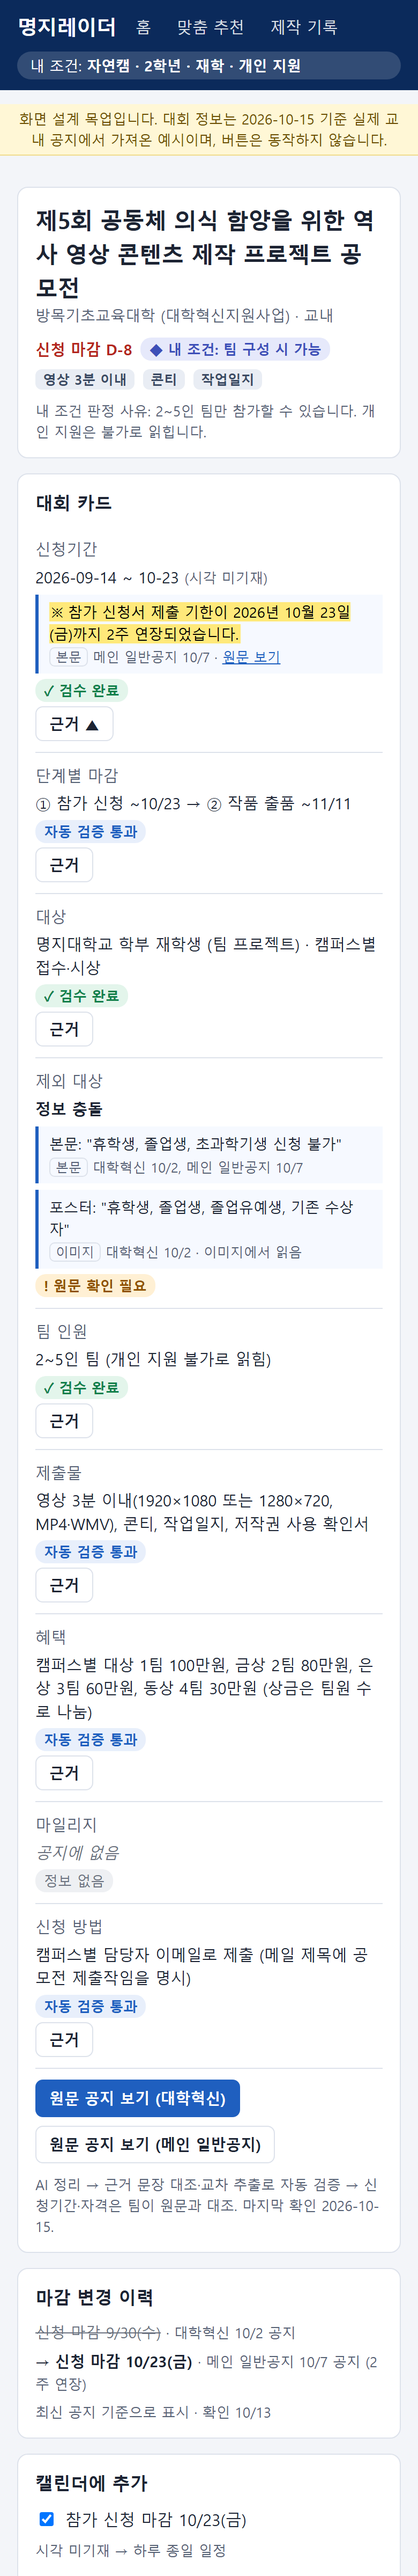
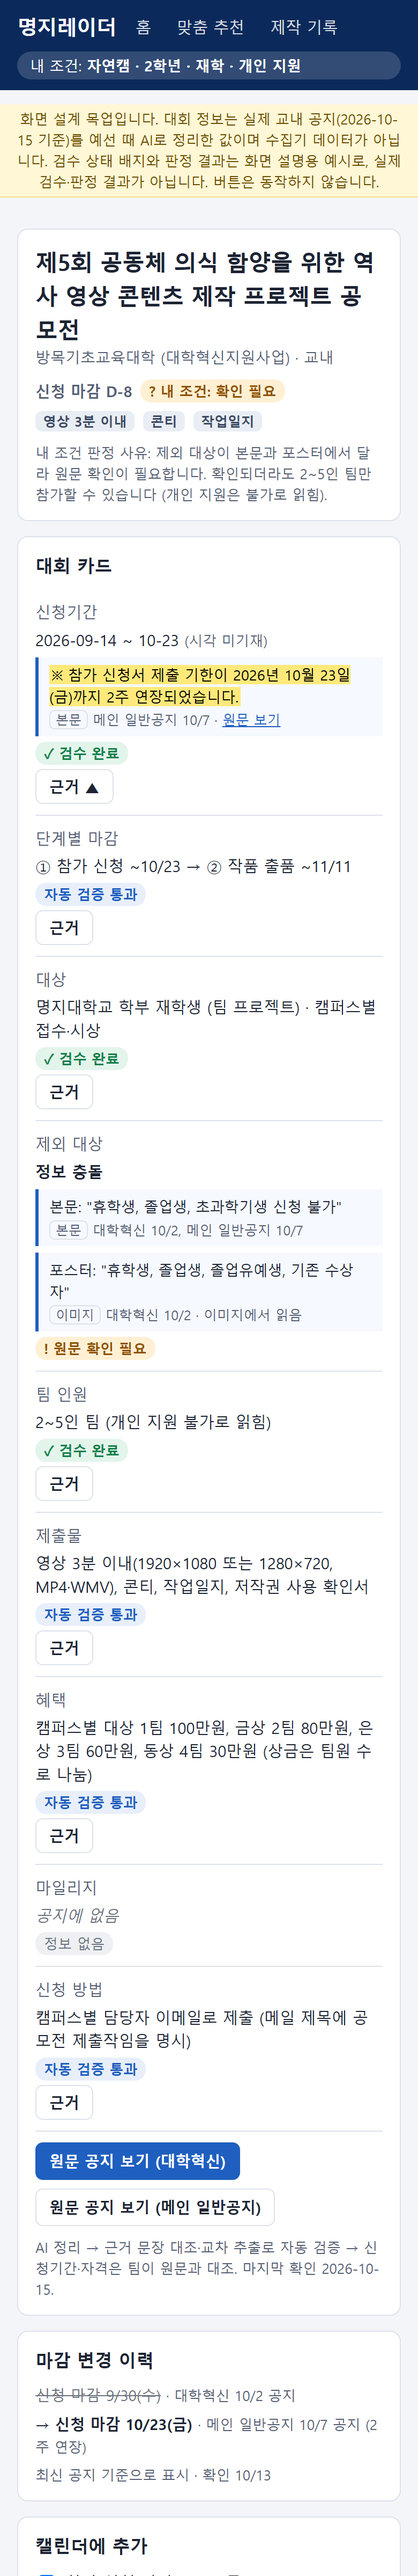
머지 전 리뷰 반영: 역사 영상 판정을 확인 필요로, 카드 배지 규칙 (#20)
역사 영상은 제외 대상이 원문 확인 필요인데 '팀 구성 시 가능'으로 판정해
계약 3절 순서(확인 필요가 팀 구성보다 먼저)와 어긋났다. #22·#24가
이 예시를 따르지 않도록 '확인 필요'로 고치고, 원문 확인이 필요한 카드에
붙어 있던 '검수 완료' 배지를 빼고 카드 단위 배지 규칙을 4절에 적었다.
D-8 빨강(규칙은 7일 이내만)과 #30에서 반영된 5절 내용도 정리했다.

diff --git a/docs/ui/mockups/recommend.html b/docs/ui/mockups/recommend.html
@@ -48,9 +48,9 @@
     </div>
 
     <div class="item">
-      <div class="row"><span class="badge j-team">◆ 팀 구성 시 가능</span><span class="title">제5회 역사 영상 콘텐츠 제작 프로젝트 공모전</span><span class="dday spacer">D-8</span></div>
-      <span class="reason">2~5인 팀만 참가 가능 (개인 지원 불가) · 대상 학부 재학생 ✓</span>
-      <p class="notice">⚠ 마감 변경: 9/30 → 10/23 <span>· 제외 대상이 본문과 포스터에서 달라 원문 확인 필요</span></p>
+      <div class="row"><span class="badge j-check">? 확인 필요</span><span class="title">제5회 역사 영상 콘텐츠 제작 프로젝트 공모전</span><span class="dday far spacer">D-8</span></div>
+      <span class="reason">제외 대상이 본문과 포스터에서 달라 원문 확인 필요 · 확인되더라도 2~5인 팀만 참가 가능 (개인 지원 불가) · 대상 학부 재학생 ✓</span>
+      <p class="notice">⚠ 마감 변경: 9/30 → 10/23 <span>(2주 연장, 시각 미기재)</span></p>
       <div class="row"><span class="tag">영상 3분 + 콘티</span><a class="btn spacer" href="card.html">카드 보기</a></div>
     </div>
 

diff --git a/docs/ui/mockups/home.html b/docs/ui/mockups/home.html
@@ -72,9 +72,9 @@
       <span class="reason">신청 마감 10/21(수) 15:00 · 3인 이내, 개인 지원 가능 · 창의 10점</span>
     </a>
     <a class="item" href="card.html">
-      <div class="row"><span class="title">제5회 역사 영상 콘텐츠 제작 프로젝트 공모전</span><span class="dday spacer">D-8</span></div>
+      <div class="row"><span class="title">제5회 역사 영상 콘텐츠 제작 프로젝트 공모전</span><span class="dday far spacer">D-8</span></div>
       <span class="org">방목기초교육대학 · 교내 · 대학혁신, 메인 일반공지</span>
-      <div class="row"><span class="tag">영상 3분 + 콘티</span><span class="badge s-human">✓ 검수 완료</span></div>
+      <div class="row"><span class="tag">영상 3분 + 콘티</span><span class="badge s-need">! 원문 확인 필요</span></div>
       <p class="notice">⚠ 마감 변경: 9/30 → 10/23 <span>(2주 연장, 시각 미기재)</span></p>
       <span class="reason">신청 10/23 → 출품 11/11 · 2~5인 팀</span>
     </a>

diff --git a/docs/ui/mockups/card.html b/docs/ui/mockups/card.html
@@ -29,11 +29,11 @@
       </div>
     </div>
     <div class="row">
-      <span class="dday">신청 마감 D-8</span>
-      <span class="badge j-team">◆ 내 조건: 팀 구성 시 가능</span>
+      <span class="dday far">신청 마감 D-8</span>
+      <span class="badge j-check">? 내 조건: 확인 필요</span>
       <span class="tag">영상 3분 이내</span><span class="tag">콘티</span><span class="tag">작업일지</span>
     </div>
-    <p class="small">내 조건 판정 사유: 2~5인 팀만 참가할 수 있습니다. 개인 지원은 불가로 읽힙니다.</p>
+    <p class="small">내 조건 판정 사유: 제외 대상이 본문과 포스터에서 달라 원문 확인이 필요합니다. 확인되더라도 2~5인 팀만 참가할 수 있습니다 (개인 지원은 불가로 읽힘).</p>
   </section>
 
   <div class="split">

diff --git a/docs/ui/화면설계.md b/docs/ui/화면설계.md
@@ -1,7 +1,7 @@
 # 화면 설계 (#20)
 
 > 2026-11-03 초안. 목업: `docs/ui/mockups/` (브라우저로 `home.html`을 열면 4화면을 오갈 수 있다).
-> 예시 데이터는 2026-10-15 기준 실제 교내 공지 4건이다 (예선 때 프롬프트 v0.1로 추출한 3건 + 원문을 직접 확인한 ABI-X 해커톤). **수집기가 모은 데이터가 아니다.** 판정 4가지가 모두 보이도록 기준일을 골랐다.
+> 예시 데이터는 2026-10-15 기준 실제 교내 공지 4건이다 (예선 때 프롬프트 v0.1로 추출한 3건 + 원문을 직접 확인한 ABI-X 해커톤). **수집기가 모은 데이터가 아니다.** 판정은 신청 가능·확인 필요·불가 3가지가 보인다. 역사 영상은 "팀 구성 시 가능" 예시였으나 제외 대상이 "원문 확인 필요"라 계약 3절 순서대로 "확인 필요"로 고쳤다 (11/4 리뷰). "팀 구성 시 가능"은 실제 데이터로 보여 준다.
 > **검수 상태 배지("검수 완료" 등)와 판정 결과, 문의 초안 문장, 마지막 확인 시각은 화면을 설명하려고 정한 값이다.** 실제 검수·판정 결과가 아니므로 발표 자료에 그대로 쓰지 않는다. 실제 사이트(#21~)의 예시 데이터는 수집기 + AI 추출 결과로 만든다.
 > 디자인 AI(미리캔버스·이미지 생성 등)는 쓰지 않았고, Claude Code가 HTML·CSS로 작성했다.
 
@@ -23,7 +23,7 @@
 상단 메뉴: 홈 · 맞춤 추천 · 제작 기록 (어느 화면에서나)
 ```
 
-**결선 3분 시연 동선 (안):** 맞춤 추천에서 문장 입력 → 인식한 조건 칩 확인 → 4가지 판정 결과 → 역사 영상 카드 상세(근거 펼침, 마감 변경 이력, 정보 충돌, 문의 초안 복사, 캘린더) → 제작 기록(규칙 vs AI 정확도, AI 검수 체험). [윤민기 검토]
+**결선 3분 시연 동선 (안):** 맞춤 추천에서 문장 입력 → 인식한 조건 칩 확인 → 판정 결과(신청 가능·확인 필요·불가, 실제 데이터에 있으면 팀 구성 시 가능) → 역사 영상 카드 상세(근거 펼침, 마감 변경 이력, 정보 충돌, 문의 초안 복사, 캘린더) → 제작 기록(규칙 vs AI 정확도, AI 검수 체험). [윤민기 검토]
 
 ## 3. 화면별 구성
 
@@ -55,6 +55,11 @@
 | ? 확인 필요 | `check` | 무엇이 없거나 확인 전인지 + 문의 초안 버튼 |
 | ✕ 불가 | `ineligible` | 맞지 않는 조건과 근거 문장. 근거가 확인 전이면 "확인 전 정보" 표시 |
 
+**카드 단위 배지** (목록·추천 화면)
+
+- "✓ 검수 완료"는 핵심 항목(`apply`, `campus`, `grades`, `enrollment`, `team`)이 **모두** `human_verified`일 때만 붙인다.
+- 핵심 항목 중 하나라도 `needs_check`면 "! 원문 확인 필요", 그 밖에 사람 대조 전이면 "확인 전"을 붙인다. 계약에는 항목 단위 `status`만 있으므로 화면(#21)이 이 규칙으로 계산한다.
+
 **기타**
 
 - **마감 변경:** 목록에서는 주황 줄 "⚠ 마감 변경: 이전 → 새 값", 상세에서는 이전 값 취소선 + 출처 공지 + 확인 일시.
@@ -63,11 +68,12 @@
 - **이미지에서 읽은 근거:** 위치 태그 `이미지` + "이미지에서 읽음" (본문·PDF 근거보다 신뢰도가 낮음).
 - **D-day:** 7일 이내는 빨강, 그 밖은 회색. 마감이 지난 대회는 목록에서 뺀다 (제작 기록·검색용 보관은 별도).
 
-## 5. 데이터 계약 보완 필요 (→ #22에서 `docs/api-contract.md` 수정)
+## 5. 데이터 계약 보완
 
-1. **학년이 언급되지 않은 경우:** 대상 문장이 "정규학기 학부 재학생"처럼 학년을 구분하지 않으면 `grades`를 `"any"`로 두고 근거는 그 대상 문장으로 한다. 지금 계약대로(`"any"`는 "제한 없음" 명시일 때만)면 학년 언급이 없는 대회가 모두 "확인 필요"가 되어 판정이 쓸모없어진다. 대상 문장 자체가 없으면 그대로 `missing`.
-2. **불가 판정과 확인 전:** 근거가 있는 자격 불일치는 확인 전이어도 `ineligible`로 내되, 화면에 "확인 전 정보" 표시를 붙인다 (계약 3절 판정 순서 1번 유지).
-3. **목록 한 줄 요약**과 **출처 게시판 이름**을 카드에 넣을지: 지금은 화면에서 fields로 조합한다.
+- **반영됨 (PR #30):** 대상 문장이 "정규학기 학부 재학생"처럼 학년·캠퍼스를 구분하지 않으면 `"any"`, 근거는 그 대상 문장. 대상 문장 자체가 없으면 `missing`. 개인 참가 가능 여부가 없으면(`team.individual_ok: null`) 개인 참가 학생은 `check`.
+- **#22에서 계약 3절에 반영:**
+  1. **불가 판정과 확인 전:** 근거가 있는 자격 불일치는 확인 전이어도 `ineligible`로 내되, 화면에 "확인 전 정보" 표시를 붙인다 (계약 3절 판정 순서 1번 유지).
+- **#17에서 결정:** 목록 한 줄 요약과 출처 게시판 이름을 카드에 넣을지. 지금은 화면에서 fields로 조합한다.
 
 ## 6. 화면 이미지
 
